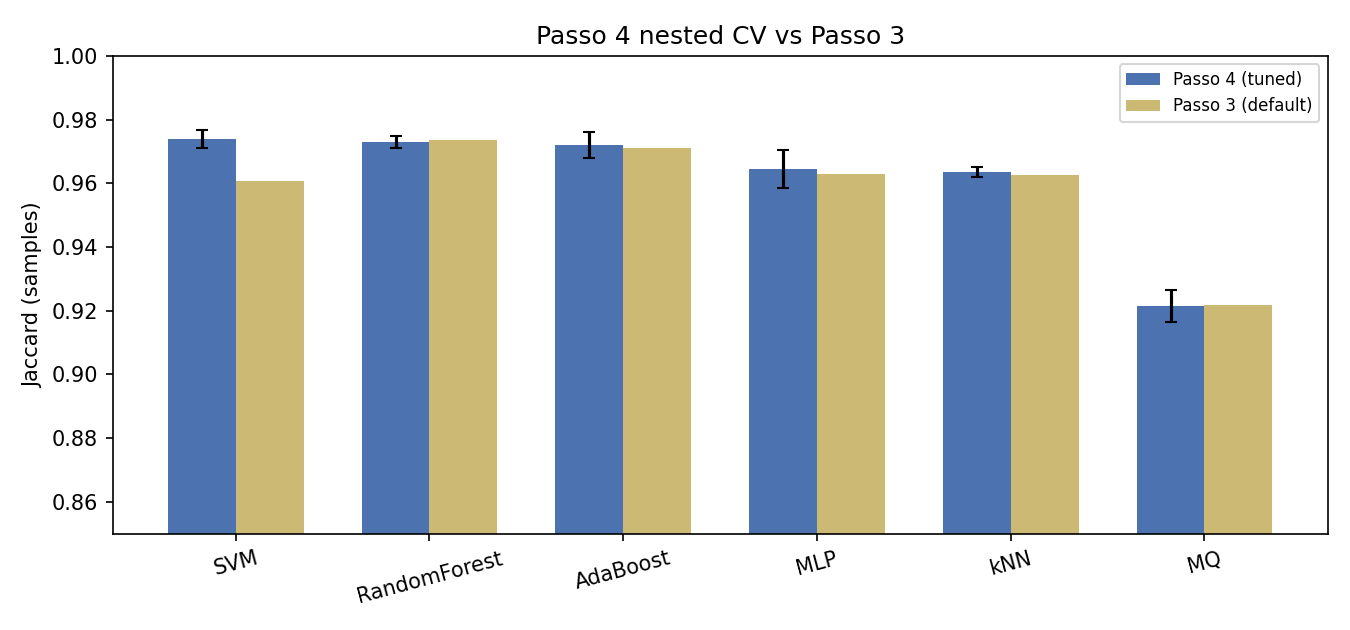
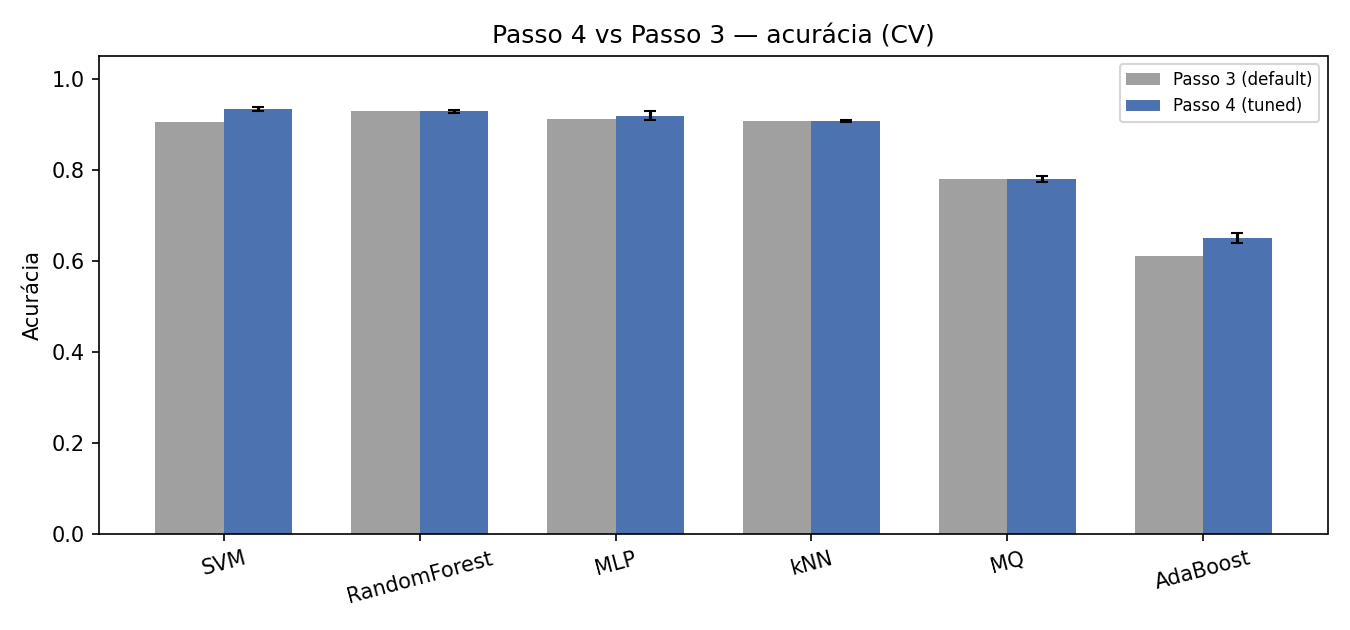
Tune multiclass models with nested CV; report hold-out.
Accuracy scorer nested CV; SVM leads; hold-out evaluation with consensus hyperparameters.

diff --git a/paper/classification/src/tuned_models.py b/paper/classification/src/tuned_models.py
@@ -47,14 +47,14 @@ def build_tuned_classifiers(random_state: int = RANDOM_STATE) -> dict[str, Any]:
             )
         ),
         "RandomForest": RandomForestClassifier(
-            n_estimators=200,
-            max_depth=None,
+            n_estimators=100,
+            max_depth=20,
             min_samples_leaf=1,
             n_jobs=-1,
             random_state=random_state,
         ),
         "AdaBoost": AdaBoostClassifier(
-            n_estimators=100,
+            n_estimators=50,
             learning_rate=1.0,
             random_state=random_state,
         ),